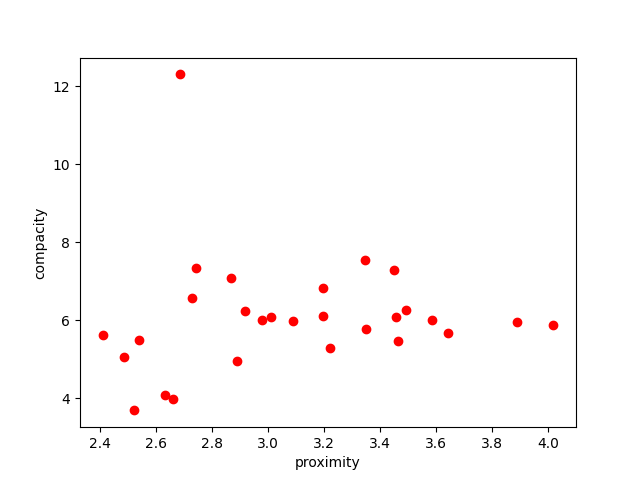
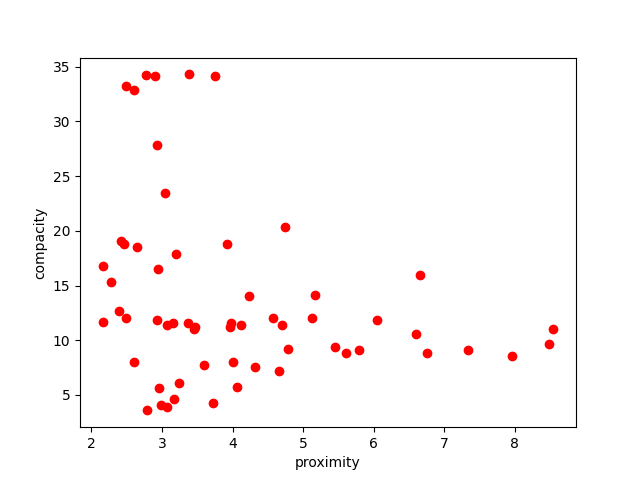
ouapizhiopargavfrzogarzjhaioruzpgazefropzeajri

diff --git a/main.py b/main.py
@@ -381,12 +381,27 @@ def selection(population, population_size):
     for solution in population:
         if solution not in population_without_doubles:
             population_without_doubles.append(solution)
+
+
     population = population_without_doubles
 
     pop_avec_norm_score = population_with_normalized_score(population)
+    pop_avec_norm_score2 = []
+    for sol1_ac_score in pop_avec_norm_score:
+        is_unique = True
+        for sol2_ac_score in pop_avec_norm_score:
+            # Check si les deux solutions sont différentes et que les scores sont très proches
+            difference_compacite = abs(sol1_ac_score[1] - sol2_ac_score[1])
+            difference_proximite = abs(sol1_ac_score[2] - sol2_ac_score[2])
+            difference_production = abs(sol1_ac_score[3] - sol2_ac_score[3])
+            if sol1_ac_score != sol2_ac_score and difference_compacite < 0.03 and difference_proximite < 0.01 and difference_production < 0.001:
+                is_unique = False
+
+        if is_unique:
+            pop_avec_norm_score2.append(sol1_ac_score)
 
 
-    filtered_population = [solution[0] for solution in pop_avec_norm_score]
+    filtered_population = [solution[0] for solution in pop_avec_norm_score2]
 
 
     # Ajouter des solutions aléatoire pour avoir la bonne taille
@@ -626,7 +641,7 @@ if __name__ == "__main__":
     """2: INITIAL POPULATION """
 
     # Generate initial population randomly ⇾ cover as much as possible the solution space
-    population_amelioree = genetic_algorithm(200, 400)
+    population_amelioree = genetic_algorithm(400, 400)
     # Determine the dominant solutions
     # Plot the frontier and generate csv files
 
